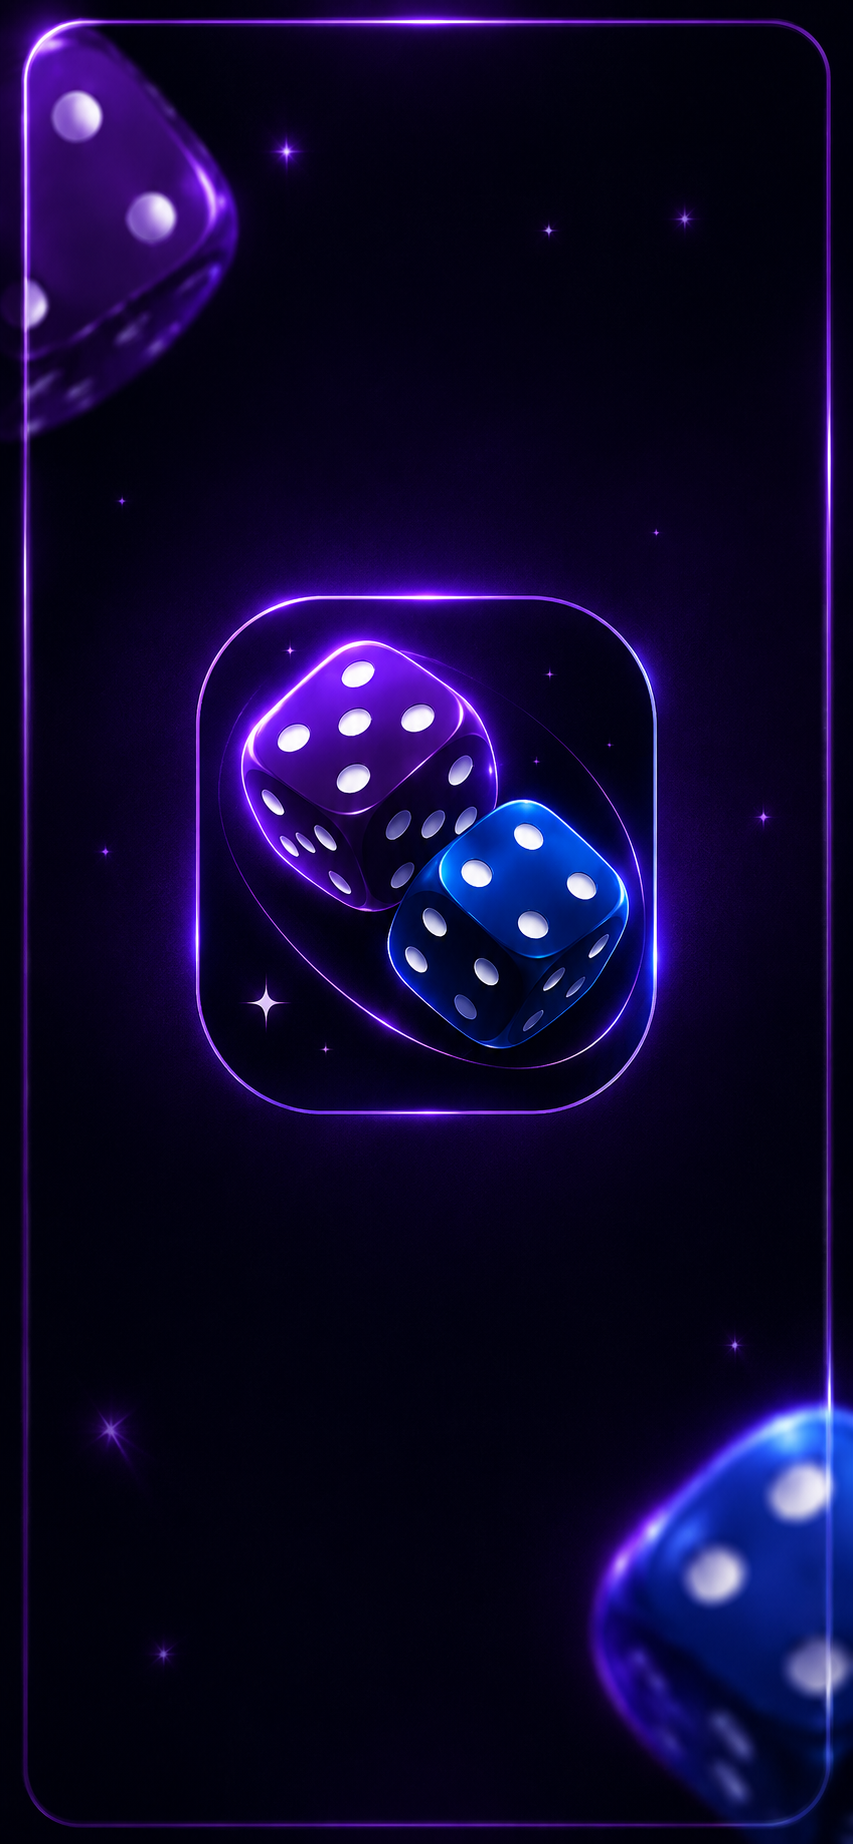
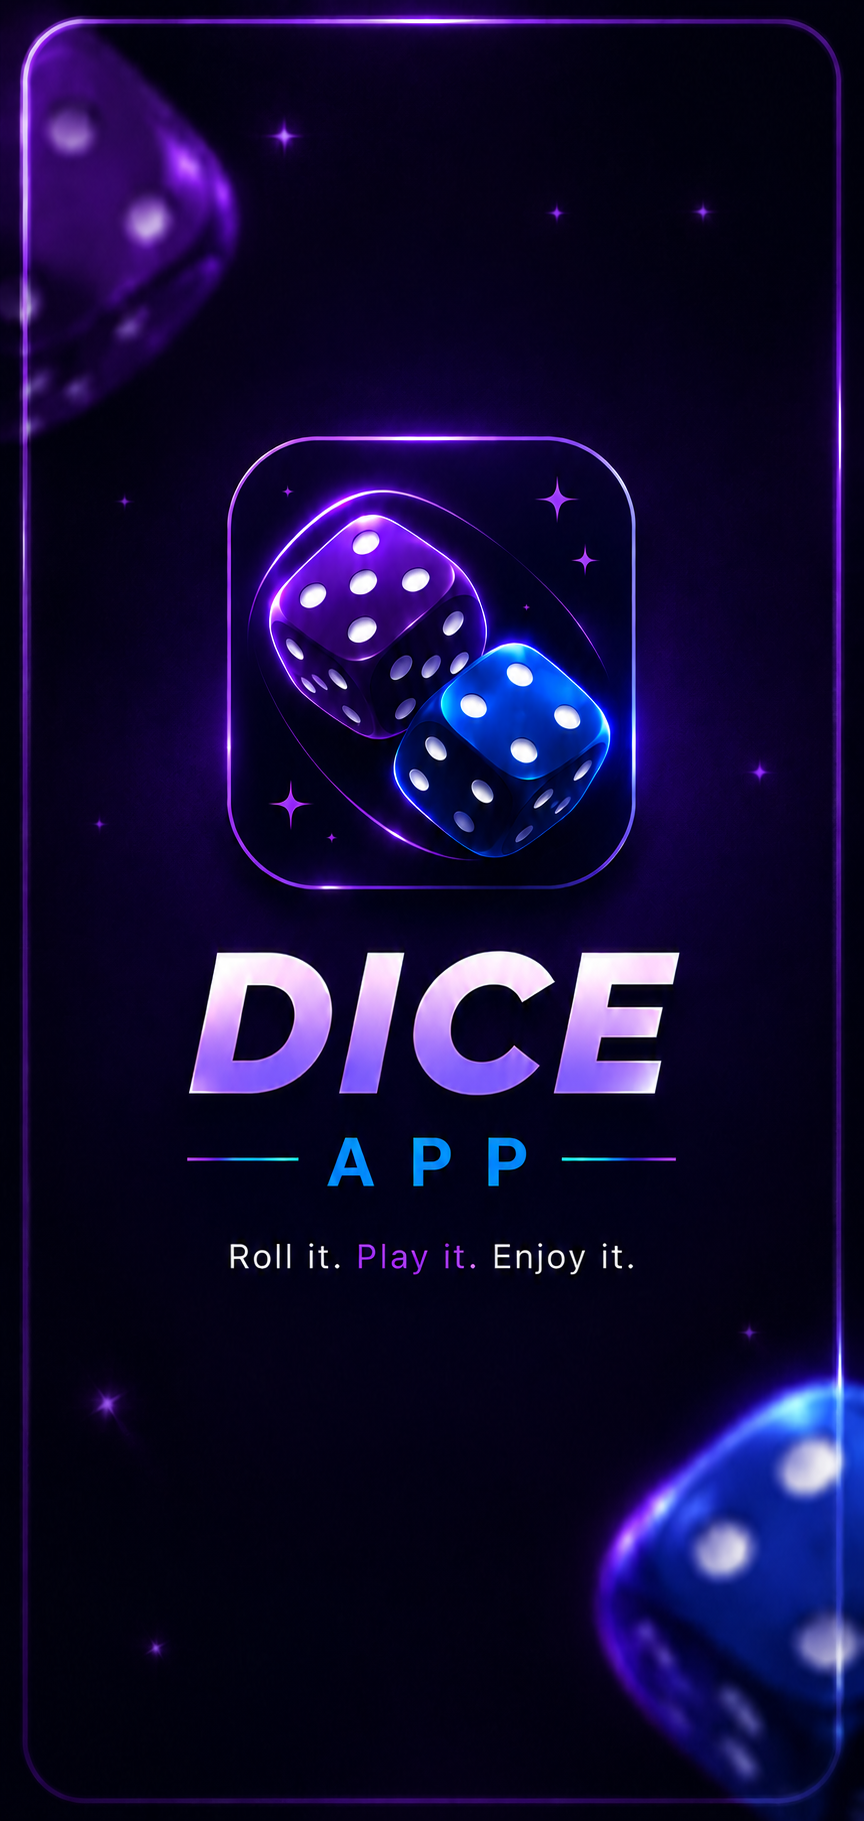
Refactor splash screen and routing; add loading animation and update timers

diff --git a/lib/feature/splash/views/splash_screen.dart b/lib/feature/splash/views/splash_screen.dart
@@ -1,217 +1,74 @@
-import 'package:dice_app/core/theme/colors_custom.dart';
 import 'package:dice_app/core/theme/textstyle_custom.dart';
 import 'package:dice_app/feature/splash/controller/splash_controller.dart';
 import 'package:flutter/material.dart';
 import 'package:get/get.dart';
 
+import 'package:dice_app/core/theme/colors_custom.dart';
 
 class SplashScreen extends GetView<SplashController> {
-
-  const SplashScreen({
-    super.key,
-  });
+  const SplashScreen({super.key});
 
   @override
   Widget build(BuildContext context) {
-
     return Scaffold(
       backgroundColor: AppColors.background,
-
       body: Stack(
         fit: StackFit.expand,
         children: [
-
-          // =====================================================
-          // BACKGROUND IMAGE
-          // =====================================================
-
+          // Splash Image
           Image.asset(
             'assets/imagesfolder/disciamge.png',
-            fit: BoxFit.cover,
-
-            errorBuilder: (
-              context,
-              error,
-              stackTrace,
-            ) {
-              return Container(
-                color: AppColors.background,
-              );
-            },
+            fit: BoxFit.contain,
           ),
 
-          // =====================================================
-          // DARK OVERLAY
-          // =====================================================
-
-          Container(
-            color: Colors.black.withOpacity(0.08),
-          ),
-
-          // =====================================================
-          // CONTENT
-          // =====================================================
-
-          SafeArea(
+          // Loading Section
+          Positioned(
+            bottom: 115,
+            left: 0,
+            right: 0,
             child: Column(
               children: [
-
-                const Spacer(
-                  flex: 6,
+                // Loading Dots
+                Row(
+                  mainAxisAlignment: MainAxisAlignment.center,
+                  children: [
+                    _buildLoadingDot(AppColors.violet),
+                    const SizedBox(width: 14),
+                    _buildLoadingDot(AppColors.purple),
+                    const SizedBox(width: 14),
+                    _buildLoadingDot(AppColors.purple),
+                    const SizedBox(width: 14),
+                    _buildLoadingDot(AppColors.purple),
+                  ],
                 ),
 
-                // =================================================
-                // DICE
-                // =================================================
+                const SizedBox(height: 28),
 
+                // Loading Text
                 const Text(
-                  'DICE',
-                  style: AppTextStyles.title,
-                  textAlign: TextAlign.center,
-                ),
-
-                const SizedBox(
-                  height: 4,
-                ),
-
-                // =================================================
-                // APP
-                // =================================================
-
-                const Text(
-                  'A P P',
-                  style: AppTextStyles.appName,
-                  textAlign: TextAlign.center,
-                ),
-
-                const SizedBox(
-                  height: 18,
-                ),
-
-                // =================================================
-                // TAGLINE
-                // =================================================
-
-                const Padding(
-                  padding: EdgeInsets.symmetric(
-                    horizontal: 24,
-                  ),
-                  child: Text.rich(
-                    TextSpan(
-                      children: [
-
-                        TextSpan(
-                          text: 'Roll it. ',
-                          style: AppTextStyles.tagline,
-                        ),
-
-                        TextSpan(
-                          text: 'Play it.',
-                          style: TextStyle(
-                            fontSize: 16,
-                            fontWeight: FontWeight.w600,
-                            color: AppColors.violet,
-                          ),
-                        ),
-
-                        TextSpan(
-                          text: ' Enjoy it.',
-                          style: AppTextStyles.tagline,
-                        ),
-                      ],
-                    ),
-                    textAlign: TextAlign.center,
-                  ),
-                ),
-
-                const Spacer(
-                  flex: 3,
-                ),
-
-                // =================================================
-                // ANIMATED LOADING DOTS
-                // =================================================
-
-                Obx(
-                  () {
-                    return Row(
-                      mainAxisAlignment:
-                          MainAxisAlignment.center,
-                      children: List.generate(
-                        4,
-                        (index) {
-
-                          final bool isActive =
-                              controller.activeDot.value ==
-                                  index;
-
-                          return AnimatedContainer(
-                            duration: const Duration(
-                              milliseconds: 250,
-                            ),
-
-                            margin:
-                                const EdgeInsets.symmetric(
-                              horizontal: 5,
-                            ),
-
-                            width:
-                                isActive ? 10 : 8,
-
-                            height:
-                                isActive ? 10 : 8,
-
-                            decoration:
-                                BoxDecoration(
-                              shape:
-                                  BoxShape.circle,
-
-                              color: isActive
-                                  ? AppColors.violet
-                                  : AppColors.purple
-                                      .withOpacity(
-                                      0.35,
-                                    ),
-
-                              boxShadow: isActive
-                                  ? [
-                                      BoxShadow(
-                                        color: AppColors
-                                            .violet
-                                            .withOpacity(
-                                          0.7,
-                                        ),
-                                        blurRadius: 10,
-                                        spreadRadius: 2,
-                                      ),
-                                    ]
-                                  : null,
-                            ),
-                          );
-                        },
-                      ),
-                    );
-                  },
-                ),
-
-                const SizedBox(
-                  height: 18,
-                ),
-
-                // =================================================
-                // LOADING TEXT
-                // =================================================
-
-                const Text(
-                  'LOADING...',
+                  'L O A D I N G . . .',
                   style: AppTextStyles.loading,
-                ),
-
-                const Spacer(
-                  flex: 2,
                 ),
               ],
             ),
+          ),
+        ],
+      ),
+    );
+  }
+
+  Widget _buildLoadingDot(Color color) {
+    return Container(
+      width: 23,
+      height: 23,
+      decoration: BoxDecoration(
+        shape: BoxShape.circle,
+        color: color,
+        boxShadow: [
+          BoxShadow(
+            color: color.withOpacity(0.5),
+            blurRadius: 10,
+            spreadRadius: 2,
           ),
         ],
       ),

diff --git a/lib/feature/splash/controller/splash_controller.dart b/lib/feature/splash/controller/splash_controller.dart
@@ -15,11 +15,13 @@ class SplashController extends GetxController
   final RxInt activeDot = 0.obs;
 
   Timer? _timer;
+  Timer? _dotTimer;
 
   @override
   void onInit() {
     super.onInit();
 
+    // Loading animation
     animationController = AnimationController(
       vsync: this,
       duration: const Duration(milliseconds: 900),
@@ -50,7 +52,7 @@ class SplashController extends GetxController
   }
 
   void _startLoadingDots() {
-    Timer.periodic(
+    _dotTimer = Timer.periodic(
       const Duration(milliseconds: 350),
       (timer) {
         if (isClosed) {
@@ -65,9 +67,11 @@ class SplashController extends GetxController
 
   void _startSplashTimer() {
     _timer = Timer(
-      const Duration(seconds: 2),
+      const Duration(seconds: 5),
       () {
-        Get.offNamed(AppRoutes.home);
+        if (!isClosed) {
+          Get.offNamed(AppRoutes.home);
+        }
       },
     );
   }
@@ -75,7 +79,9 @@ class SplashController extends GetxController
   @override
   void onClose() {
     _timer?.cancel();
+    _dotTimer?.cancel();
     animationController.dispose();
+
     super.onClose();
   }
 }

diff --git a/lib/core/routes/page_routes.dart b/lib/core/routes/page_routes.dart
@@ -1,0 +1,29 @@
+
+import 'package:dice_app/feature/home/binding/home_binding.dart';
+import 'package:dice_app/feature/home/view/home_screen.dart';
+import 'package:dice_app/feature/splash/binding/splash_binding.dart';
+import 'package:dice_app/feature/splash/views/splash_screen.dart';
+import 'package:get/get.dart';
+
+
+
+import 'app_routes.dart';
+
+class AppPages {
+  static const initial = AppRoutes.splash;
+
+  static final routes = <GetPage>[
+    GetPage(
+      name: AppRoutes.splash,
+      page: () => const SplashScreen(),
+      binding: SplashBinding(),
+    ),
+
+    GetPage(
+      name: AppRoutes.home,
+      page: () => const HomeScreen(),
+      binding: HomeBinding(),
+    ),
+  ];
+}
+

diff --git a/lib/core/routes/app_routes.dart b/lib/core/routes/app_routes.dart
@@ -1,4 +1,5 @@
-class AppRoutes {
+
+abstract class AppRoutes {
   static const splash = '/splash';
   static const home = '/home';
 }
